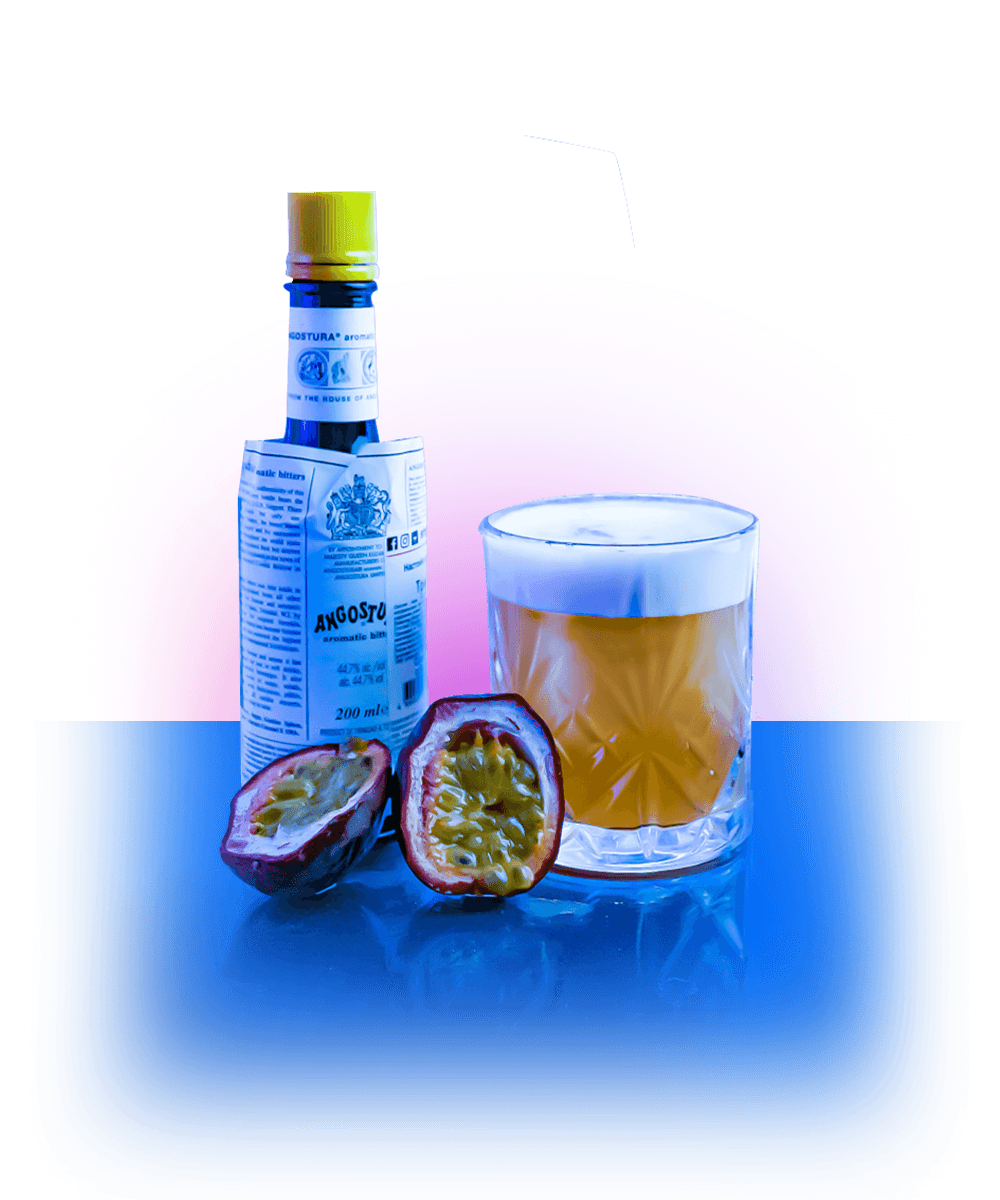
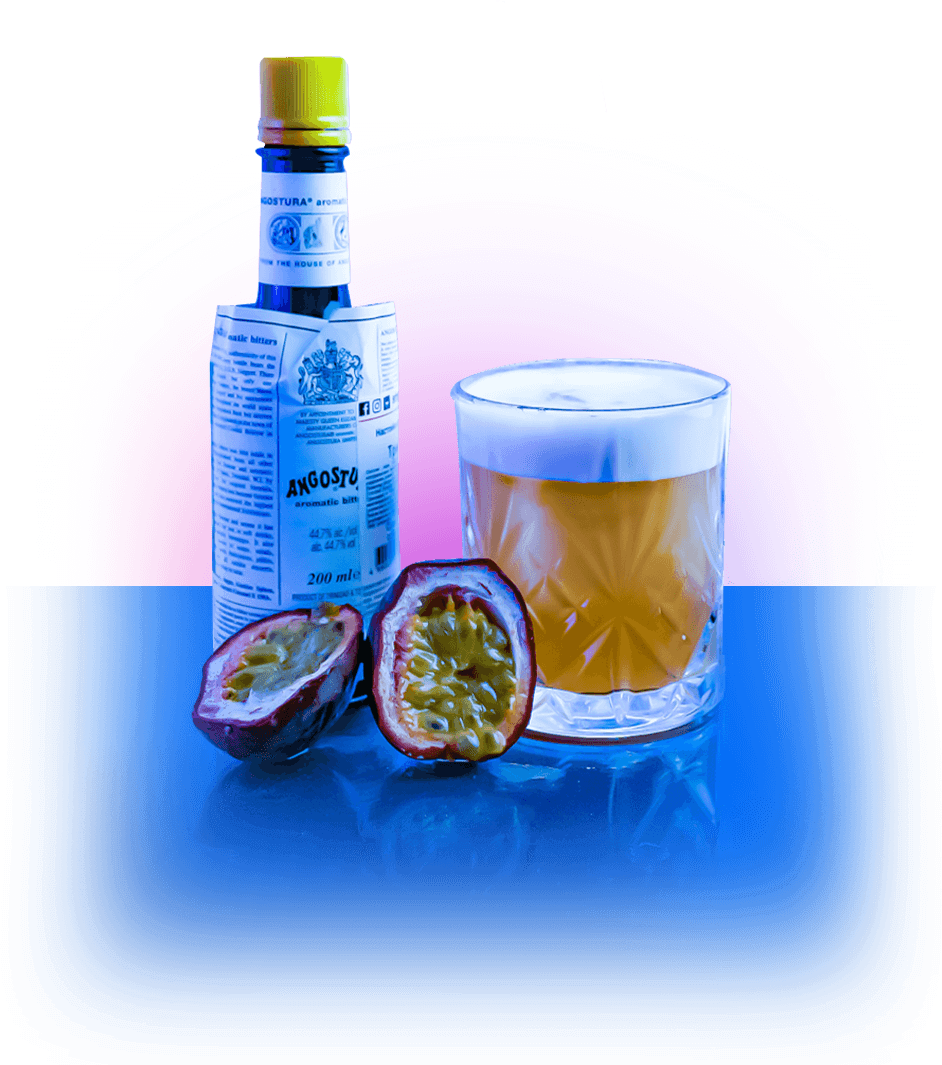
last

diff --git a/items-premium.html b/items-premium.html
@@ -484,7 +484,7 @@
 					</div>
 				</li>
 				<li class="ms__list-item">
-					<div class="ms__title">Грушевый сауэр</div>
+					<div class="ms__title"><span>Г</span>рушевый сауэр</div>
 					<div class="ms__desk">К любому собитию и настроению</div>
 					<div class="ms__img img-wrp">
 						<img src="img/7.png" alt="img" loading="lazy">
@@ -803,7 +803,7 @@
 					<div class="ms__img img-wrp">
 						<img src="img/13.png" alt="img" loading="lazy">
 					</div>
-					<div class="ms__text ms__text1">Ром Botucal, Лаймовый сок, Тростниковый сахар</div>
+					<div class="ms__text ms__text1">Ром, Лаймовый сок, Тростниковый сахар</div>
 					<div class="ms__text ms__text2">Украшения: Лайм, Лист банана</div>
 
 					<div class="ms__prc">
@@ -860,7 +860,7 @@
 					</div>
 				</li>
 				<li class="ms__list-item">
-					<div class="ms__title">Голубые Гавайи</div>
+					<div class="ms__title"><span>Г</span>олубые <span>Г</span>авайи</div>
 					<div class="ms__desk">Коктель с темпераментом</div>
 					<div class="ms__img img-wrp">
 						<img src="img/14.png" alt="img" loading="lazy">
@@ -1504,7 +1504,7 @@
 					</div>
 					<div class="swiper-slide">
 						<div class="ms-swiper__info">
-							<div class="ms-swiper__title">Грушевый сауэр</div>
+							<div class="ms-swiper__title"><span>Г</span>рушевый сауэр</div>
 							<div class="ms-swiper__desk">К любому собитию и настроению</div>
 							<div class="ms-swiper__text ms-swiper__text1">Ром, Грушевый ликер, Грушовое пюре, Лаймовый сок, Трастниковый сахар, Пастеризованный белок, Палочка карицы</div>
 							<div class="ms-swiper__text ms-swiper__text2">Украшения: Чипсы из груши</div>
@@ -1630,7 +1630,7 @@
 						<div class="ms-swiper__info">
 							<div class="ms-swiper__title">Дайкири</div>
 							<div class="ms-swiper__desk">Баланс сладости и кислотности</div>
-							<div class="ms-swiper__text ms-swiper__text1">Ром Botucal, Лаймовый сок, Тростниковый сахар</div>
+							<div class="ms-swiper__text ms-swiper__text1">Ром, Лаймовый сок, Тростниковый сахар</div>
 							<div class="ms-swiper__text ms-swiper__text2">Украшения: Лайм, Лист банана</div>
 						</div>
 						<div class="ms-swiper__prc">27%</div>
@@ -1640,7 +1640,7 @@
 					</div>
 					<div class="swiper-slide">
 						<div class="ms-swiper__info">
-							<div class="ms-swiper__title">Голубые Гавайи</div>
+							<div class="ms-swiper__title"><span>Г</span>олубые <span>Г</span>авайи</div>
 							<div class="ms-swiper__desk">Коктель с темпераментом</div>
 							<div class="ms-swiper__text ms-swiper__text1">Светлый ром, Ликёр «Малибу» (кокосовый), Ликёр Блю Кюрасо (дикий апельсин), Сок ананаса, Лимонный сок, Ананасовое пюре</div>
 							<div class="ms-swiper__text ms-swiper__text2">Украшения: Ананас, Лист банана</div>

diff --git a/items-vip.html b/items-vip.html
@@ -484,7 +484,7 @@
 					</div>
 				</li>
 				<li class="ms__list-item">
-					<div class="ms__title">Грушевый сауэр</div>
+					<div class="ms__title"><span>Г</span>рушевый сауэр</div>
 					<div class="ms__desk">К любому собитию и настроению</div>
 					<div class="ms__img img-wrp">
 						<img src="img/7.png" alt="img" loading="lazy">
@@ -860,7 +860,7 @@
 					</div>
 				</li>
 				<li class="ms__list-item">
-					<div class="ms__title">Голубые Гавайи</div>
+					<div class="ms__title"><span>Г</span>олубые <span>Г</span>авайи</div>
 					<div class="ms__desk">Коктель с темпераментом</div>
 					<div class="ms__img img-wrp">
 						<img src="img/14.png" alt="img" loading="lazy">
@@ -1504,7 +1504,7 @@
 					</div>
 					<div class="swiper-slide">
 						<div class="ms-swiper__info">
-							<div class="ms-swiper__title">Грушевый сауэр</div>
+							<div class="ms-swiper__title"><span>Г</span>рушевый сауэр</div>
 							<div class="ms-swiper__desk">К любому собитию и настроению</div>
 							<div class="ms-swiper__text ms-swiper__text1">Ром, Грушевый ликер, Грушовое пюре, Лаймовый сок, Трастниковый сахар, Пастеризованный белок, Палочка карицы</div>
 							<div class="ms-swiper__text ms-swiper__text2">Украшения: Чипсы из груши</div>
@@ -1640,7 +1640,7 @@
 					</div>
 					<div class="swiper-slide">
 						<div class="ms-swiper__info">
-							<div class="ms-swiper__title">Голубые Гавайи</div>
+							<div class="ms-swiper__title"><span>Г</span>олубые <span>Г</span>авайи</div>
 							<div class="ms-swiper__desk">Коктель с темпераментом</div>
 							<div class="ms-swiper__text ms-swiper__text1">Светлый ром, Ликёр «Малибу» (кокосовый), Ликёр Блю Кюрасо (дикий апельсин), Сок ананаса, Лимонный сок, Ананасовое пюре</div>
 							<div class="ms-swiper__text ms-swiper__text2">Украшения: Ананас, Лист банана</div>

diff --git a/style/_main.scss b/style/_main.scss
@@ -337,7 +337,7 @@
     opacity: 0;
     height: 0;
     transition: opacity 300ms ease-in-out;
-    
+
     // .ms-swiper__list.active
     &.active{
       // display: block !important;
@@ -409,6 +409,7 @@
     height: 660px;
     position: relative;
     top: -53px;
+    // top: -13px;
     left: 10px;
   }
   // .ms-swiper__bg-img
@@ -419,6 +420,7 @@
     left: 50%;
     transform: translateX(-50%);
     bottom: -105px;
+    // bottom: -145px;
     z-index: -1;
   }
 

diff --git a/style/style.css b/style/style.css
@@ -890,10 +890,20 @@ input {
 
 .swiper-slide {
   opacity: 0 !important;
+  overflow: visible !important;
 }
 
 .swiper-slide-active {
   opacity: 1 !important;
+}
+
+.ms__title span {
+  margin-right: -13px;
+}
+
+.ms__title span:last-child {
+  margin-right: -13px;
+  margin-left: 10px;
 }
 
 @media screen and (max-width: 1300px) {

diff --git a/style/style.scss b/style/style.scss
@@ -88,11 +88,21 @@ input {
 }
 .swiper-slide{
   opacity: 0 !important;
+  overflow: visible !important;
 }
 
 .swiper-slide-active{
   opacity: 1 !important;
 }
+
+.ms__title span{
+  margin-right: -13px;
+}
+.ms__title span:last-child{
+  margin-right: -13px;
+  margin-left: 10px;
+}
+
 
 @media screen and (max-width: 1600px) {
 }
